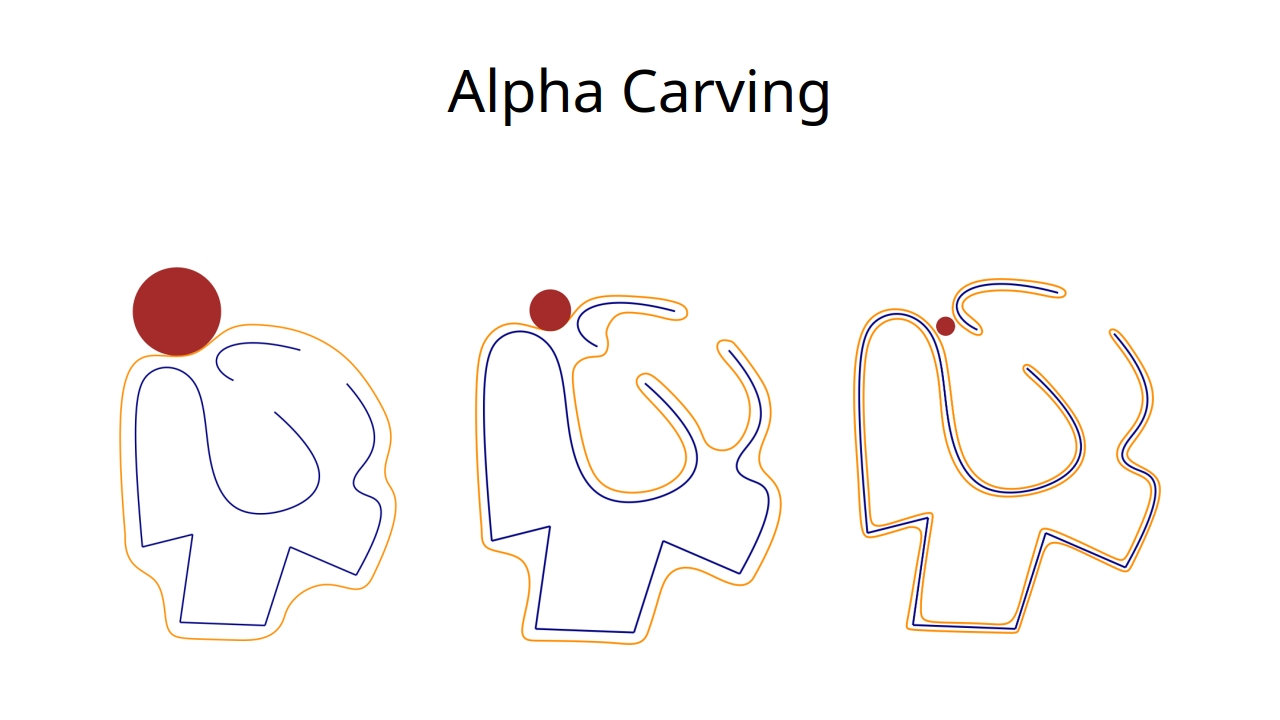
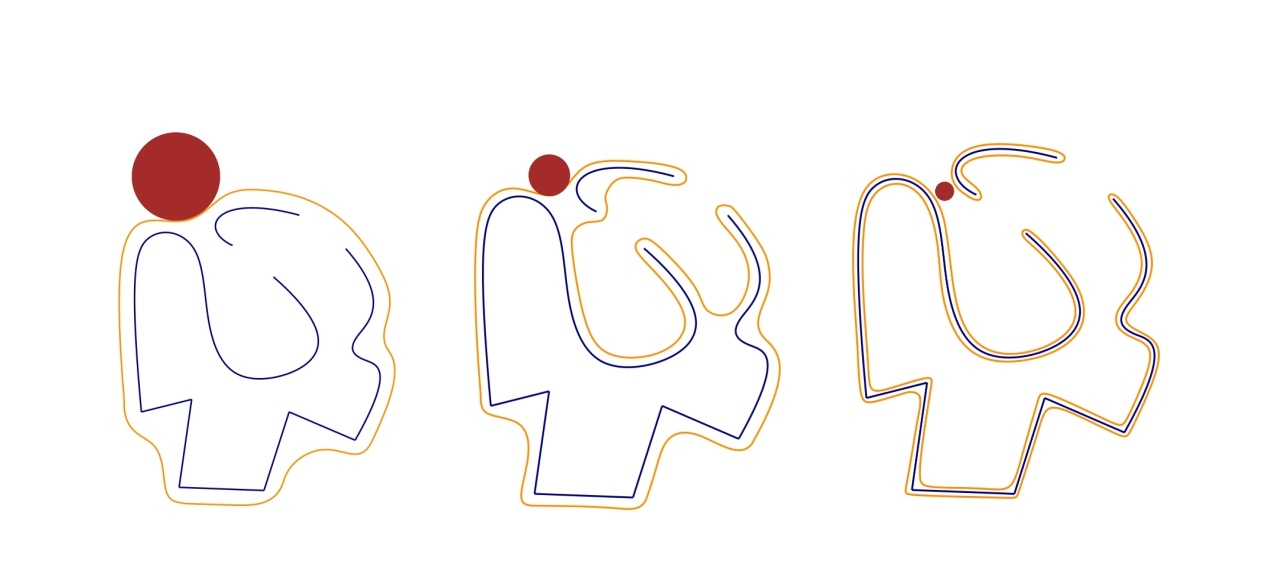
updates: - presentation modifies: - alpha-wrapping_ball

diff --git a/report/presentation.tex b/report/presentation.tex
@@ -208,9 +208,6 @@
 \end{frame}
 
 \begin{frame}{Sofware and libraries: Overpass turbo}
-  Overpass turbo is a web-based data filtering tool for OpenStreetMap. 
-  It runs queries on the Overpass API.
-  
     \begin{figure}[H]
       \centering
       \includegraphics[width=\textwidth]{images/overpass-turbo.png}
@@ -235,15 +232,6 @@
   \begin{center}
     \Large \textbf{URL} transfer library
   \end{center}
-\end{frame}
-
-\begin{frame}{Sofware and libraries: how an API works}
-  \begin{figure}[H]
-    \centering
-    \includegraphics[width=1\textwidth]{images/how-api-works.jpg}
-    \captionsetup{font={scriptsize}}
-    \caption{Example of query to get trees in Strasbourg.}
-  \end{figure}
 \end{frame}
 
 \begin{frame}{Sofware and libraries: CGAL}
@@ -489,10 +477,9 @@ Sometimes, multiple \textbf{tags} are missing:
 
 
 \begin{frame}{Alpha Wrapping}
-  \Large
   \begin{figure}[H]
     \centering
-    \includegraphics[width=1.1\textwidth]{images/alpha-wrapping_ball.jpg}
+    \includegraphics[width=\textwidth]{images/alpha-wrapping_ball.jpg}
     \captionsetup{font={scriptsize}}
     \caption{Alpha Wrapping in 2D with Offset and different Alpha parameters}
 \end{figure}
